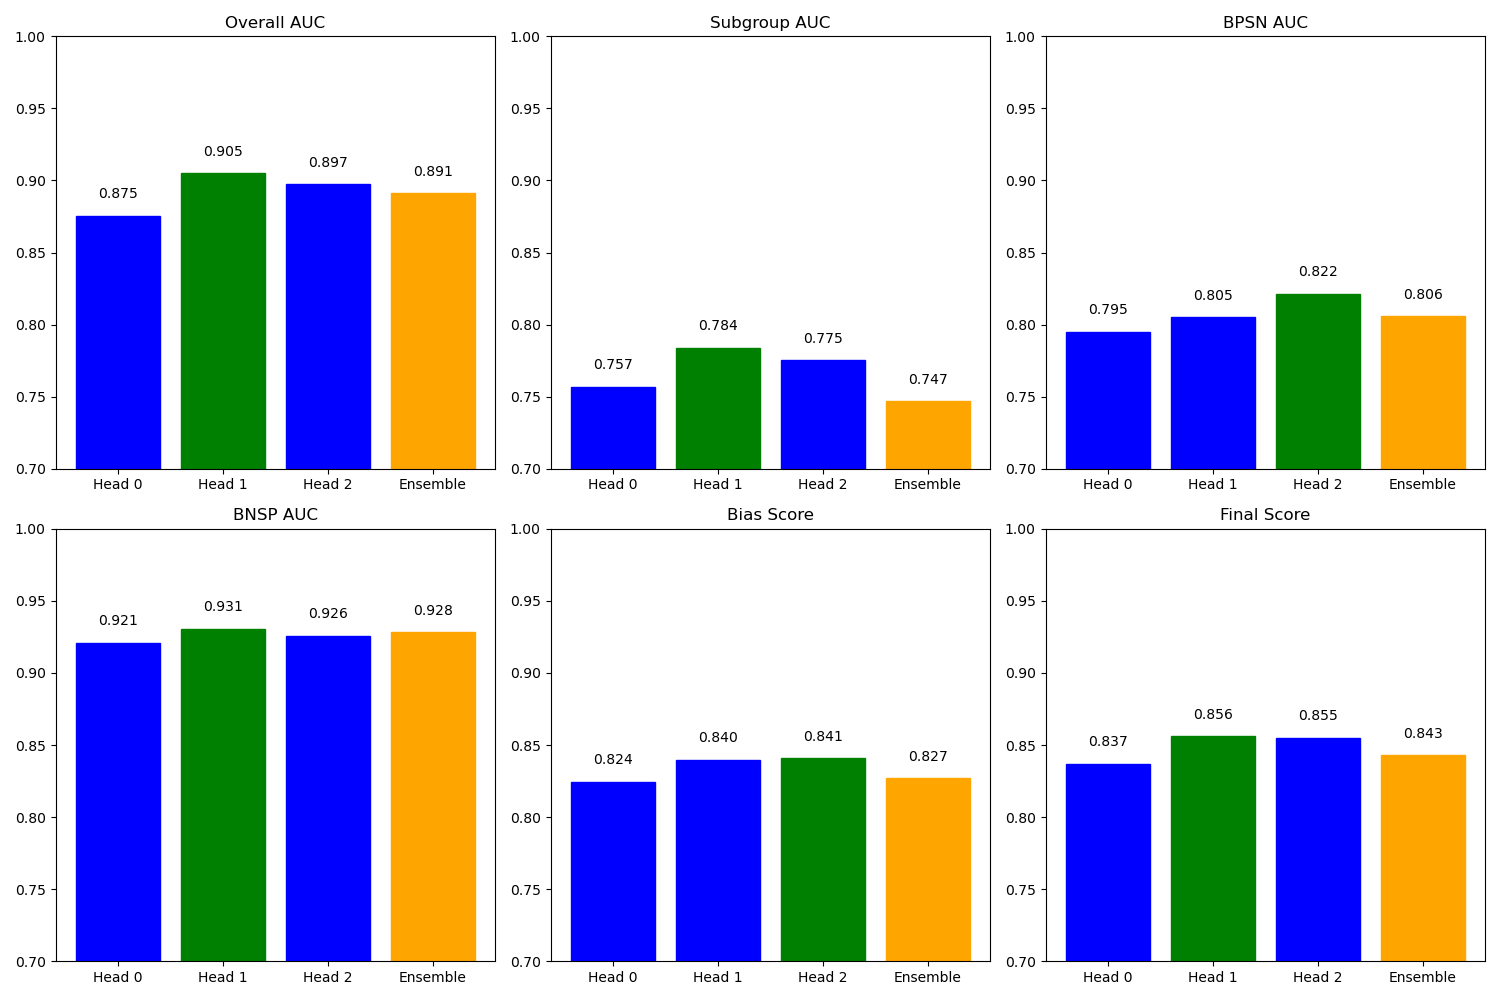
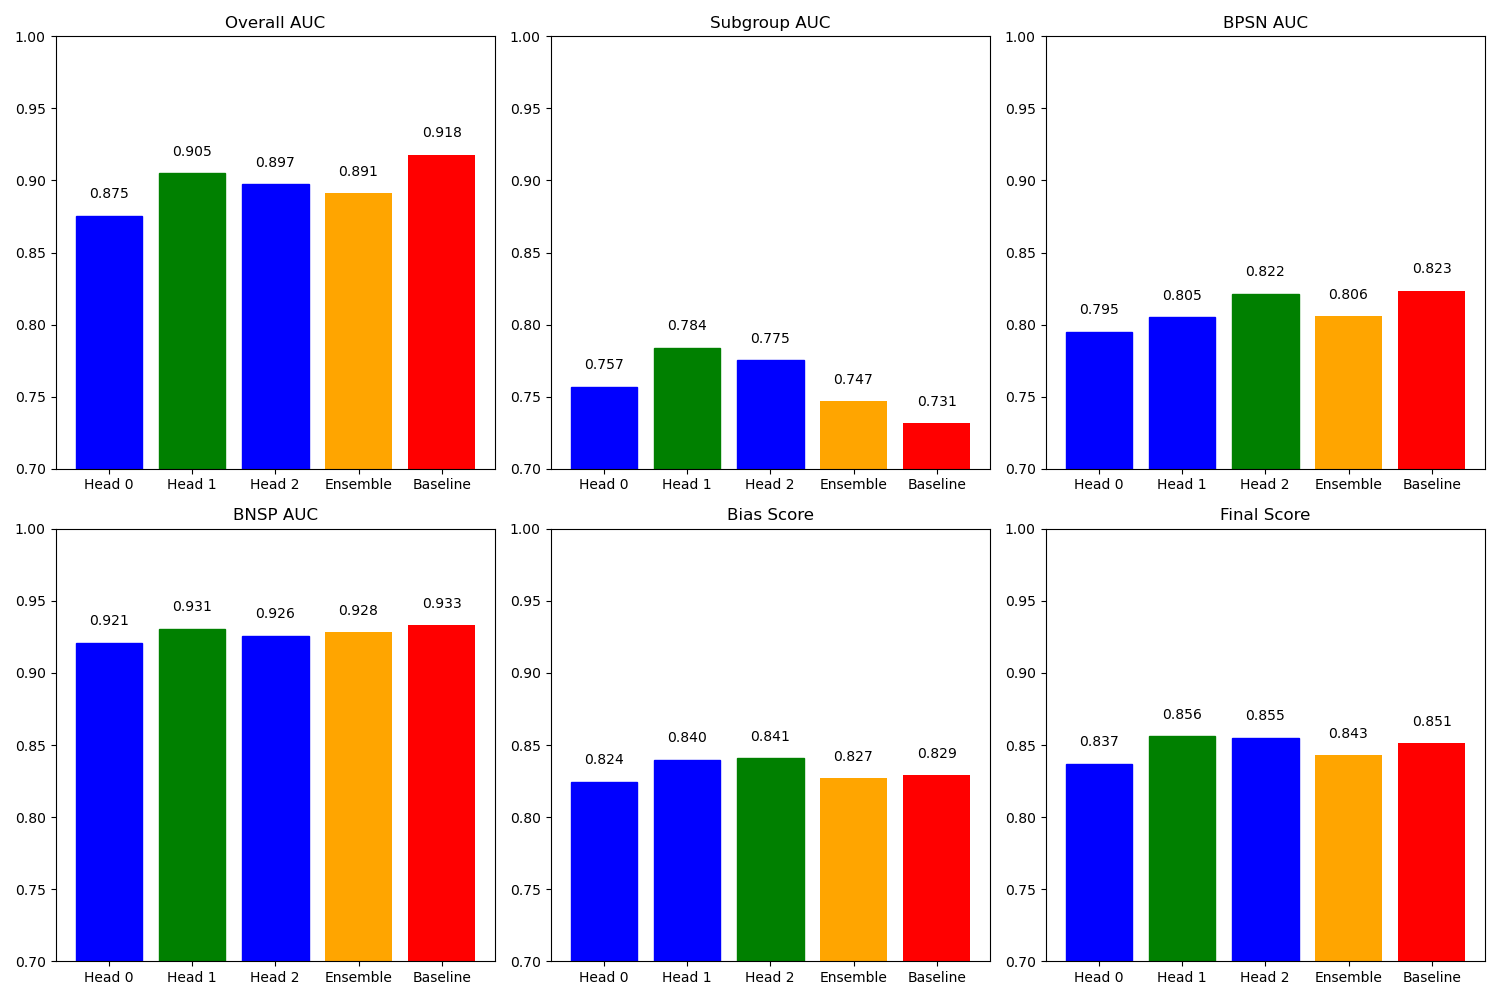
added how to reproduce results for jigsaw

diff --git a/jigsaw_visualizer.py b/jigsaw_visualizer.py
@@ -375,18 +375,19 @@ def plot_identity_attribution_differences(bias_df):
 
 def plot_head_bias_comparison(metrics):
     """
-    Plot comparison of bias metrics across different heads
+    Plot comparison of bias metrics across different heads and baseline
     """
     import matplotlib.pyplot as plt
     import numpy as np
     
-    if 'divdis_heads' not in metrics:
-        print("No head-specific metrics found")
+    if 'divdis_heads' not in metrics or 'baseline' not in metrics:
+        print("Missing required metrics")
         return
     
     # Extract metrics for each head
     head_metrics = metrics['divdis_heads']
     ensemble_metrics = metrics['divdis']
+    baseline_metrics = metrics['baseline']
     
     # Metrics to compare
     metric_names = ['overall_auc', 'subgroup_auc_mean', 'bpsn_auc_mean', 'bnsp_auc_mean', 'bias_score', 'final_score']
@@ -413,8 +414,15 @@ def plot_head_bias_comparison(metrics):
         # Add ensemble value
         values.append(ensemble_metrics['summary'][metric])
         
-        # Create bar chart
-        bars = axes[i].bar(['Head 0', 'Head 1', 'Head 2', 'Ensemble'], values)
+        # Add baseline value
+        values.append(baseline_metrics['summary'][metric])
+        
+        # Create bar chart with colors
+        bars = axes[i].bar(
+            ['Head 0', 'Head 1', 'Head 2', 'Ensemble', 'Baseline'], 
+            values,
+            color=['blue', 'green', 'blue', 'orange', 'red']
+        )
         
         # Color the best head differently
         best_idx = np.argmax(values[:3])
@@ -423,7 +431,6 @@ def plot_head_bias_comparison(metrics):
                 bar.set_color('green')
             else:
                 bar.set_color('blue')
-        bars[3].set_color('orange')
         
         # Add labels
         axes[i].set_title(pretty_names[metric])
@@ -437,157 +444,6 @@ def plot_head_bias_comparison(metrics):
     
     plt.tight_layout()
     plt.savefig('head_bias_comparison.png')
-    plt.close()
-    
-    # Now create detailed plots for each identity group showing all three key metrics
-    # Get all identity groups that appear in all heads and ensemble
-    common_identities = set()
-    for identity in ensemble_metrics['identity_metrics'].keys():
-        in_all_heads = True
-        for h in range(3):
-            head_name = f"head_{h}"
-            if identity not in head_metrics[head_name]['identity_metrics']:
-                in_all_heads = False
-                break
-        if in_all_heads:
-            common_identities.add(identity)
-    
-    # Sort identities alphabetically for consistent display
-    common_identities = sorted(list(common_identities))
-    
-    # Create a figure for each of the three key metrics
-    metric_descriptions = {
-        'subgroup_auc': 'Subgroup AUC: Higher is better at distinguishing toxic vs non-toxic comments mentioning identity',
-        'bpsn_auc': 'BPSN AUC: Lower means model falsely flags non-toxic comments mentioning identity',
-        'bnsp_auc': 'BNSP AUC: Lower means model misses toxic comments mentioning identity'
-    }
-    
-    for metric_key, metric_desc in metric_descriptions.items():
-        plt.figure(figsize=(15, 10))
-        
-        # For each identity, plot the metric value for each head and ensemble
-        x = np.arange(len(common_identities))
-        width = 0.2  # Width of bars
-        
-        # Plot each head
-        for h in range(3):
-            head_name = f"head_{h}"
-            values = [head_metrics[head_name]['identity_metrics'][identity][metric_key] 
-                     for identity in common_identities]
-            plt.bar(x + (h-1)*width, values, width, label=f'Head {h}')
-        
-        # Plot ensemble
-        ensemble_values = [ensemble_metrics['identity_metrics'][identity][metric_key] 
-                          for identity in common_identities]
-        plt.bar(x + 2*width, ensemble_values, width, label='Ensemble')
-        
-        # Add labels and legend
-        plt.xlabel('Identity Group')
-        plt.ylabel('AUC Score')
-        plt.title(f'{metric_key.upper()}: {metric_desc}')
-        plt.xticks(x + width/2, common_identities, rotation=90)
-        plt.legend()
-        plt.grid(axis='y', linestyle='--', alpha=0.7)
-        plt.tight_layout()
-        plt.savefig(f'identity_{metric_key}_comparison.png')
-        plt.close()
-    
-    # Create a heatmap showing which head is best for each identity group on each metric
-    for metric_key in ['subgroup_auc', 'bpsn_auc', 'bnsp_auc']:
-        identity_groups = []
-        best_heads = []
-        improvements = []
-        
-        for identity in common_identities:
-            ensemble_score = ensemble_metrics['identity_metrics'][identity][metric_key]
-            head_scores = []
-            
-            for h in range(3):
-                head_name = f"head_{h}"
-                head_score = head_metrics[head_name]['identity_metrics'][identity][metric_key]
-                head_scores.append((h, head_score))
-            
-            best_head, best_score = max(head_scores, key=lambda x: x[1])
-            improvement = best_score - ensemble_score
-            
-            identity_groups.append(identity)
-            best_heads.append(best_head)
-            improvements.append(improvement)
-        
-        # Sort by improvement
-        sorted_indices = np.argsort(improvements)[::-1]
-        sorted_identities = [identity_groups[i] for i in sorted_indices]
-        sorted_heads = [best_heads[i] for i in sorted_indices]
-        sorted_improvements = [improvements[i] for i in sorted_indices]
-        
-        # Create figure for identity specialization
-        plt.figure(figsize=(14, 8))
-        
-        # Create scatter plot
-        colors = ['blue', 'red', 'green']
-        for h in range(3):
-            indices = [i for i, head in enumerate(sorted_heads) if head == h]
-            if indices:
-                plt.scatter(
-                    [i for i in range(len(sorted_identities)) if sorted_heads[i] == h],
-                    [sorted_improvements[i] for i in range(len(sorted_improvements)) if sorted_heads[i] == h],
-                    label=f'Head {h}',
-                    color=colors[h],
-                    s=100
-                )
-        
-        plt.axhline(y=0, color='gray', linestyle='--')
-        plt.xticks(range(len(sorted_identities)), sorted_identities, rotation=90)
-        plt.ylabel(f'Improvement over Ensemble {metric_key.upper()}')
-        plt.title(f'Head Specialization by Identity Group - {metric_key.upper()}')
-        plt.legend()
-        plt.grid(axis='y', linestyle='--', alpha=0.3)
-        plt.tight_layout()
-        plt.savefig(f'head_identity_specialization_{metric_key}.png')
-        plt.close()
-    
-    # Create a comprehensive table visualization showing which head is best for each identity on each metric
-    plt.figure(figsize=(16, len(common_identities)*0.4 + 2))
-    
-    # Create a table-like visualization
-    cell_text = []
-    for identity in common_identities:
-        row = [identity]
-        
-        for metric_key in ['subgroup_auc', 'bpsn_auc', 'bnsp_auc']:
-            head_scores = []
-            for h in range(3):
-                head_name = f"head_{h}"
-                score = head_metrics[head_name]['identity_metrics'][identity][metric_key]
-                head_scores.append((h, score))
-            
-            best_head, best_score = max(head_scores, key=lambda x: x[1])
-            ensemble_score = ensemble_metrics['identity_metrics'][identity][metric_key]
-            improvement = best_score - ensemble_score
-            
-            row.append(f"Head {best_head} ({best_score:.3f}, +{improvement:.3f})")
-        
-        cell_text.append(row)
-    
-    # Create table
-    table = plt.table(
-        cellText=cell_text,
-        colLabels=['Identity Group', 'Best Head for Subgroup AUC', 'Best Head for BPSN AUC', 'Best Head for BNSP AUC'],
-        loc='center',
-        cellLoc='center',
-        colWidths=[0.2, 0.25, 0.25, 0.25]
-    )
-    
-    # Style the table
-    table.auto_set_font_size(False)
-    table.set_fontsize(9)
-    table.scale(1, 1.5)
-    
-    # Hide axes
-    plt.axis('off')
-    plt.title('Best Head for Each Identity Group by Metric', fontsize=14, pad=20)
-    plt.tight_layout()
-    plt.savefig('identity_best_head_table.png', bbox_inches='tight')
     plt.close()
 
 def plot_best_head_vs_baseline(metrics):

diff --git a/Readme.md b/Readme.md
@@ -1,9 +1,11 @@
 # Final Project
 
 ## Overview
+
 The repo includes models, explainability methods, utility functions, and analyses of both the COMPAS, Twitter hate speech and Jigsaw datasets. A conda environment to run the code can be constructed from requirements.txt
 
 ## Repository Structure
+
 - `models.py` - Defines machine learning models with tunable hyperparameters, including seed configurations for reproducible results.
 - `explainer.py` - Contains explainability methods to interpret model predictions and outputs.
 - `utils.py` - Utility functions used across different components of the project.
@@ -14,3 +16,36 @@ The repo includes models, explainability methods, utility functions, and analyse
 - `jigsaw-pipeline` - Contains pipeline to run jigsaw analysis and models
 
 For COMPAS and Twitter hatespeech models hyperparameters, including seeds, can be set within the files. The LIME and Shapely results for COMPAS data are in 3 heads, 5 heads, 10 heads, for each ensemble size respectively.
+
+## Running Jigsaw Toxicity Classification Experiments
+
+1. Run the Full Pipeline
+   This command runs the complete pipeline including data preprocessing, model training, and evaluation:
+
+```
+python jigsaw-pipeline.py --mode train --model_type both --epochs 3 --batch_size 32 --train_samples 25000 --test_samples 2000
+```
+
+## 2. Evaluate a Trained Model
+
+To evaluate a previously trained model on the test set:
+
+```
+python jigsaw-pipeline.py --mode evaluate --model_type divdis --test_samples 2000
+```
+
+For evaluating the baseline model:
+
+```
+python jigsaw-pipeline.py --mode evaluate --model_type baseline --test_samples 2000
+```
+
+## 3. Generate Visualizations
+
+To generate visualizations of model performance and bias metrics:
+
+```
+python jigsaw-pipeline.py --mode visualize --test_samples 2000
+```
+
+This will generate visualizations based on the previously saved results in bias_metrics_results.json.
